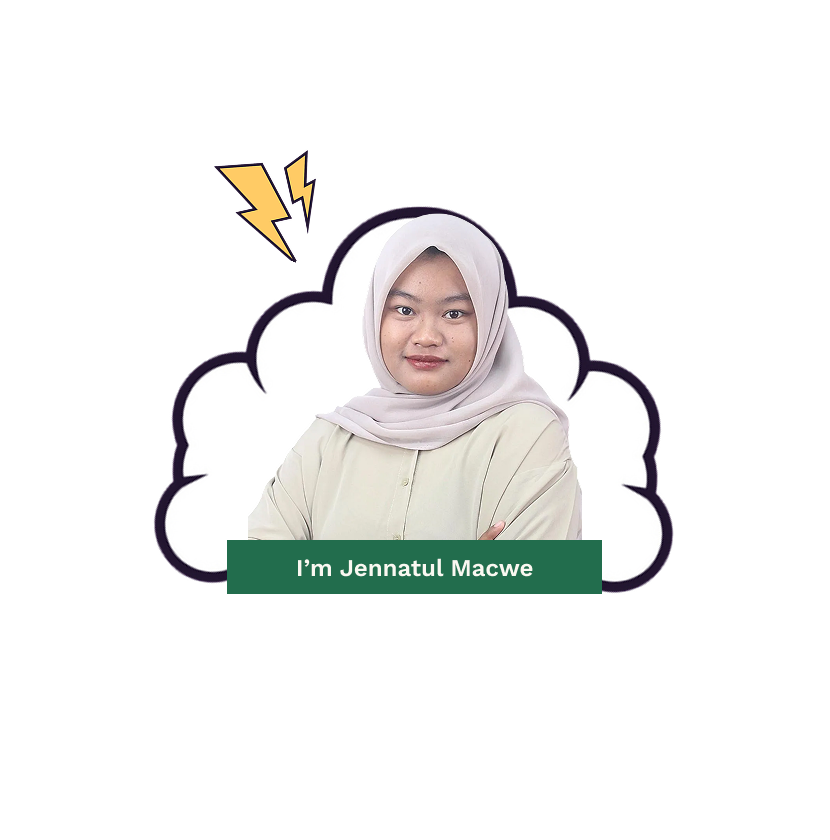
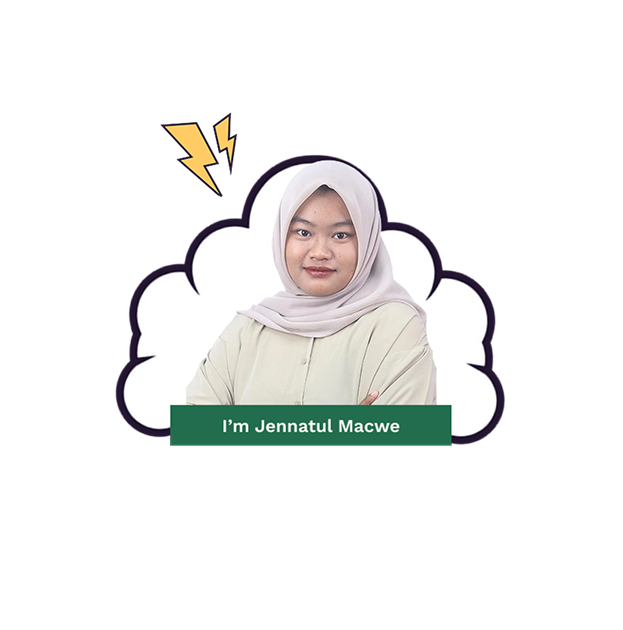
ngubah gambar di tombol download, nambah logika di gambar maskot ada blur sblm loading gambar biar tidak lama

diff --git a/design-portfolio/index.html b/design-portfolio/index.html
@@ -119,7 +119,7 @@
             <div class="maskot-content">
                 <!-- LEFT IMAGE -->
                 <div class="maskot-image">
-                    <img src="../assets/page-design/maskot.png" alt="Maskot GDSC UTM">
+                    <img src="../assets/page-design/maskot.png" alt="Maskot GDSC UTM" loading="lazy">
                 </div>
 
                 <!-- RIGHT TEXT -->

diff --git a/css/page_design.css b/css/page_design.css
@@ -424,7 +424,14 @@ body {
 .maskot-image img {
     width: 450px;
     justify-content: center;
-    transform: translateY(-15px);
+    margin-top: -15px;
+    filter: blur(10px);
+    transform: scale(1.05);
+}
+
+.maskot-image img.loaded {
+    filter: blur(0);
+    transform: scale(1);
 }
 .maskot-text img {
     width: 450px;

diff --git a/javascript/js.js.js b/javascript/js.js.js
@@ -197,3 +197,14 @@ cards.forEach(card => {
         });
     });
 });
+
+document.querySelectorAll(".maskot-image img").forEach(img => {
+    if (img.complete) {
+        img.classList.add("loaded");
+    } else {
+        img.addEventListener("load", () => {
+            img.classList.add("loaded");
+        });
+    }
+});
+
